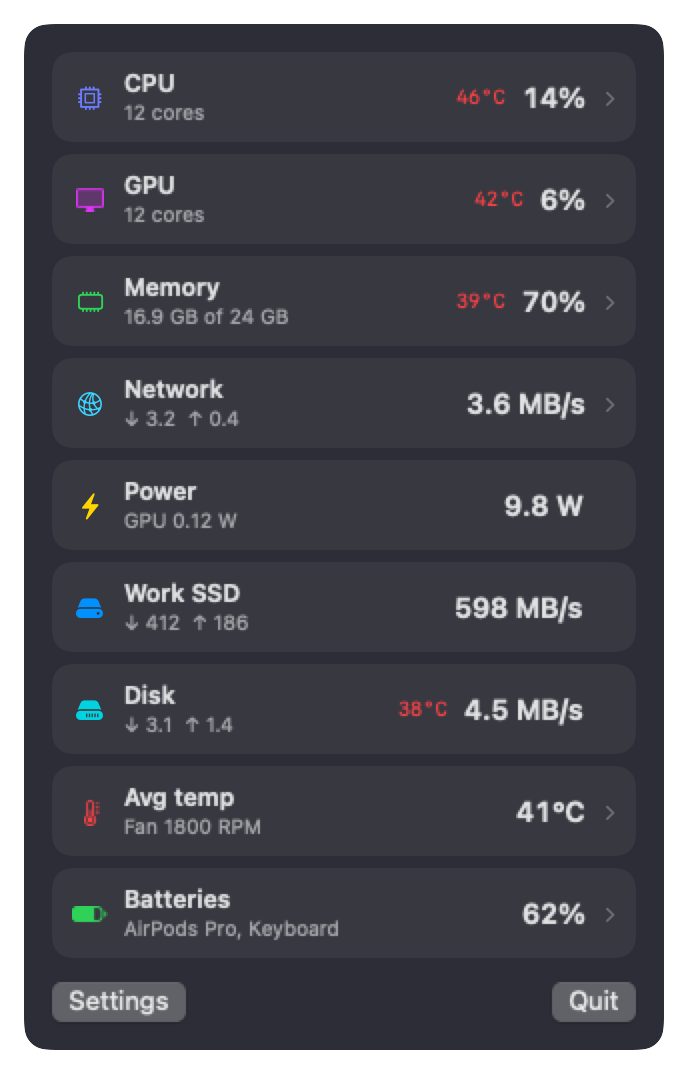
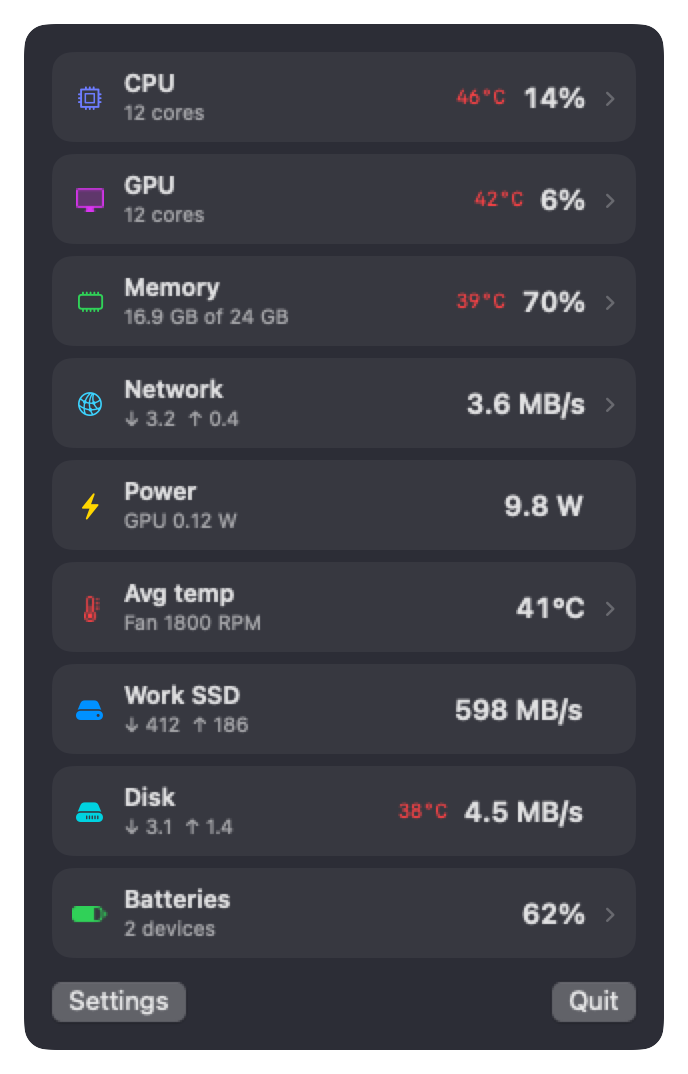
Simpler Display settings (Temperatures, Panel, Menu bar), one order everywhere, Batteries tile lists every device

diff --git a/Sources/SystemMonitorApp/Settings.swift b/Sources/SystemMonitorApp/Settings.swift
@@ -3,7 +3,7 @@ import SystemMonitorCore
 
 /// Things that can be shown in the menu bar icon and/or the panel.
 enum MonitorItem: String, CaseIterable, Identifiable {
-    case memory, drives, disk, power, cpu, gpu, thermal, network, devices
+    case cpu, gpu, memory, network, power, thermal, drives, disk, devices
 
     var id: String { rawValue }
 
@@ -91,10 +91,6 @@ final class Settings: ObservableObject {
     @Published var useFahrenheit: Bool {
         didSet { UserDefaults.standard.set(useFahrenheit, forKey: Self.unitKey) }
     }
-    /// Also read keyboard and mouse batteries over Bluetooth LE (asks macOS for Bluetooth access).
-    @Published var readBluetoothBatteries: Bool {
-        didSet { UserDefaults.standard.set(readBluetoothBatteries, forKey: "readBluetoothBatteries") }
-    }
     /// Correction to Memory used, in bytes, set from "Calibrate" in Settings (0 = none).
     @Published var memoryCalibration: Int64 {
         didSet { UserDefaults.standard.set(Double(memoryCalibration), forKey: "memoryCalibration") }
@@ -104,16 +100,9 @@ final class Settings: ObservableObject {
     @Published var panelList: Bool {
         didSet { UserDefaults.standard.set(panelList, forKey: "panelList") }
     }
-    @Published var menuBarMeters: Bool {
-        didSet { UserDefaults.standard.set(menuBarMeters, forKey: "menuBarMeters") }
-    }
     /// Menu bar style: false = short names (MEM, CPU ...), true = coloured icons with shorter text.
     @Published var menuBarIcons: Bool {
         didSet { UserDefaults.standard.set(menuBarIcons, forKey: "menuBarIcons") }
-    }
-    /// Show the CPU and GPU temperature in the menu bar too (red, after the load).
-    @Published var menuBarTemperatures: Bool {
-        didSet { UserDefaults.standard.set(menuBarTemperatures, forKey: "menuBarTemperatures") }
     }
     /// nil = detect from this Mac's CPU name.
     @Published var chipOverride: ChipFamily? {
@@ -147,11 +136,8 @@ final class Settings: ObservableObject {
         showTemperatures = UserDefaults.standard.object(forKey: Self.showTempKey) as? Bool ?? true
         useFahrenheit = UserDefaults.standard.bool(forKey: Self.unitKey)
         menuBarIcons = UserDefaults.standard.bool(forKey: "menuBarIcons")
-        menuBarMeters = UserDefaults.standard.bool(forKey: "menuBarMeters")
         panelList = UserDefaults.standard.bool(forKey: "panelList")
         memoryCalibration = Int64(UserDefaults.standard.double(forKey: "memoryCalibration"))
-        readBluetoothBatteries = UserDefaults.standard.bool(forKey: "readBluetoothBatteries")
-        menuBarTemperatures = UserDefaults.standard.object(forKey: "menuBarTemperatures") as? Bool ?? true
         chipOverride = UserDefaults.standard.string(forKey: Self.chipKey).flatMap(ChipFamily.init(rawValue:))
         let saved = UserDefaults.standard.double(forKey: Self.intervalKey)
         updateInterval = Self.intervals.contains(saved) ? saved : 1

diff --git a/Sources/SystemMonitorApp/SettingsView.swift b/Sources/SystemMonitorApp/SettingsView.swift
@@ -73,17 +73,8 @@ struct SettingsView: View {
                     }
                     .pickerStyle(.segmented).labelsHidden().fixedSize()
                 }
-                if settings.showTemperatures {
-                    Divider()
-                    SettingsRow(title: "Temperature in menu bar") {
-                        Toggle("", isOn: $settings.menuBarTemperatures).toggleStyle(.checkbox).labelsHidden()
-                    }
-                }
-                Divider()
-                SettingsRow(title: "Keyboard and mouse batteries") {
-                    Toggle("", isOn: $settings.readBluetoothBatteries).toggleStyle(.checkbox).labelsHidden()
-                }
                 if monitor.logitechStatus.hasPrefix("open failed") {
+                    Divider()
                     HStack {
                         Text("Mouse blocked: allow Lanes under Input Monitoring.").font(.caption).foregroundStyle(.orange)
                         Spacer()
@@ -102,11 +93,10 @@ struct SettingsView: View {
                     .pickerStyle(.segmented).labelsHidden().fixedSize()
                 }
                 Divider()
-                SettingsRow(title: "Menu bar style") {
-                    Picker("", selection: menuBarStyle) {
-                        Text("Names").tag(0)
-                        Text("Icons").tag(1)
-                        Text("Meters").tag(2)
+                SettingsRow(title: "Menu bar") {
+                    Picker("", selection: $settings.menuBarIcons) {
+                        Text("Names").tag(false)
+                        Text("Icons").tag(true)
                     }
                     .pickerStyle(.segmented).labelsHidden().fixedSize()
                 }
@@ -144,16 +134,6 @@ struct SettingsView: View {
             }
             .buttonStyle(.plain)
         }
-    }
-
-    /// Menu bar look: 0 = names, 1 = icons, 2 = meters (icons plus small meters for memory, CPU and GPU).
-    private var menuBarStyle: Binding<Int> {
-        Binding(
-            get: { settings.menuBarMeters ? 2 : (settings.menuBarIcons ? 1 : 0) },
-            set: { style in
-                settings.menuBarMeters = style == 2
-                settings.menuBarIcons = style != 0
-            })
     }
 
     /// One control for "show temperatures" and the unit: 0 = off, 1 = °C, 2 = °F.

diff --git a/Sources/SystemMonitorApp/IconCells.swift b/Sources/SystemMonitorApp/IconCells.swift
@@ -11,7 +11,6 @@ extension Monitor {
         var cells: [IconCell] = []
         let on = settings.menuBarItems
         let icons = settings.menuBarIcons
-        let meters = settings.menuBarMeters
 
         /// One cell in the chosen style. `value` is the full text, `short` the Icons-style text,
         /// `samples` / `shortSamples` the widest strings for a steady width.
@@ -32,10 +31,6 @@ extension Monitor {
         func cell(_ item: MonitorItem, label: String, value: String, short: String? = nil,
                   color: NSColor = .labelColor, samples: [String], shortSamples: [String]? = nil,
                   fraction: Double? = nil) -> IconCell {
-            if meters, let fraction {
-                return IconCell(layout: .meter(fraction: fraction, meterColor: item.nsColor, value: short ?? value),
-                                color: color, widthSamples: shortSamples ?? Array(samples.dropFirst()))
-            }
             if icons {
                 return IconCell(layout: .icon(symbol: symbol(item), symbolColor: item.nsColor, value: short ?? value),
                                 color: color, widthSamples: shortSamples ?? Array(samples.dropFirst()))
@@ -85,7 +80,7 @@ extension Monitor {
             }
         }
         if on.contains(.disk), let d = internalDrive {
-            let temp: (String, NSColor)? = settings.showTemperatures && settings.menuBarTemperatures
+            let temp: (String, NSColor)? = settings.showTemperatures
                 ? thermal?.ssdC.map { (settings.temperature($0, symbol: false), .systemRed) } : nil
             cells.append(driveCell(.disk, name: "DISK", read: d.readMBps, write: d.writeMBps, temp: temp))
         }
@@ -123,7 +118,7 @@ extension Monitor {
         for (item, label, load) in [(MonitorItem.cpu, "CPU", cpu), (.gpu, "GPU", gpu)] {
             guard on.contains(item), let load else { continue }
             let tempC = item == .cpu ? thermal?.cpuC : thermal?.gpuC
-            let temp = settings.showTemperatures && settings.menuBarTemperatures
+            let temp = settings.showTemperatures
                 ? tempC.map { " " + settings.temperature($0, symbol: false) } : nil
             let sample = temp == nil ? "100%" : "100% 212°"
             let percent = String(format: "%.0f%%", load * 100)

diff --git a/Sources/SystemMonitorApp/PanelView.swift b/Sources/SystemMonitorApp/PanelView.swift
@@ -63,7 +63,7 @@ struct PanelView: View {
 
     // MARK: Main panel
 
-    private static let tileOrder: [MonitorItem] = [.cpu, .gpu, .memory, .network, .power, .drives, .disk, .thermal, .devices]
+    private static let tileOrder: [MonitorItem] = [.cpu, .gpu, .memory, .network, .power, .thermal, .drives, .disk, .devices]
     /// Only these have more to show than their tile: cores and sensors, and the memory breakdown.
     private static let pageItems: Set<MonitorItem> = [.cpu, .gpu, .memory, .network, .thermal, .devices]
 
@@ -154,7 +154,8 @@ struct PanelView: View {
     private func driveCorner(_ drive: DriveRate) -> (text: String?, color: Color) {
         if monitor.smart[drive.bsdName] == .failing { return ("SMART ✗", .red) }
         guard let space = space(for: drive) else { return (nil, .secondary) }
-        return (ByteCountFormatter.string(fromByteCount: Int64(space.freeBytes), countStyle: .file), .secondary)
+        let gb = Double(space.freeBytes) / 1e9
+        return (gb >= 1000 ? String(format: "%.1f TB", gb / 1000) : String(format: "%.0f GB", gb), .secondary)
     }
 
     private func tileData(_ item: MonitorItem) -> TileData? {
@@ -229,8 +230,11 @@ struct PanelView: View {
             guard let lowest = monitor.lowestBattery else { return nil }
             let names = (monitor.laptopBattery == nil ? [] : ["This Mac"]) + monitor.deviceBatteries.map(\.name)
             var data = TileData(id: item, symbol: item.symbol, name: "Batteries", color: item.color,
-                                big: "\(lowest)%", small: names.map(shortDeviceName).joined(separator: ", "),
+                                big: "\(lowest)%", small: "\(names.count) device\(names.count == 1 ? "" : "s")",
                                 corner: nil, history: [])
+            // Every device on its own line (the lowest level is the big number).
+            data.lines = (monitor.laptopBattery.map { [("This Mac", "\($0.percent)%")] } ?? [])
+                + monitor.deviceBatteries.map { (shortDeviceName($0.name), "\($0.lowestPercent)%") }
             data.fraction = Double(lowest) / 100
             return data
         }

diff --git a/Sources/SystemMonitorApp/Tiles.swift b/Sources/SystemMonitorApp/Tiles.swift
@@ -19,6 +19,8 @@ struct TileData: Identifiable {
     let history: [Double]
     /// 0...1 fill for the bar shown when there is no history (Batteries).
     var fraction: Double?
+    /// One line per entry (name, value), for tiles that list several things (Batteries).
+    var lines: [(String, String)] = []
 }
 
 /// One tile: name and corner text, a big number, a small caption and a little graph.
@@ -43,7 +45,7 @@ struct Tile: View {
                 Text(data.name).font(.system(size: 11, weight: .semibold)).foregroundStyle(.secondary).lineLimit(1)
                 Spacer(minLength: 2)
                 if let corner = data.corner {
-                    Text(corner).font(.system(size: 10, design: .monospaced)).foregroundStyle(data.cornerColor)
+                    Text(corner).font(.system(size: 10, design: .monospaced)).foregroundStyle(data.cornerColor).lineLimit(1).fixedSize()
                 }
                 if action != nil {
                     Image(systemName: "chevron.right").font(.system(size: 8, weight: .bold)).foregroundStyle(.tertiary)
@@ -70,6 +72,17 @@ struct Tile: View {
                     speeds
                 }
                 .font(.system(size: 10, weight: .medium)).lineLimit(1)
+            } else if !data.lines.isEmpty {
+                VStack(spacing: 1) {
+                    ForEach(data.lines.indices.prefix(4), id: \.self) { i in
+                        HStack(spacing: 4) {
+                            Text(data.lines[i].0).lineLimit(1).truncationMode(.tail)
+                            Spacer(minLength: 2)
+                            Text(data.lines[i].1).monospacedDigit()
+                        }
+                    }
+                }
+                .font(.system(size: 10)).foregroundStyle(.secondary)
             } else {
                 Text(data.small).font(.system(size: 10)).foregroundStyle(.secondary).lineLimit(1)
             }

diff --git a/Sources/SystemMonitorApp/Monitor.swift b/Sources/SystemMonitorApp/Monitor.swift
@@ -69,7 +69,7 @@ final class Monitor: ObservableObject {
 
     /// Starts or stops the Bluetooth LE reads to match the settings.
     func updateBLEReading() {
-        let wanted = settings.readBluetoothBatteries && (settings.menuBarItems.union(settings.panelItems)).contains(.devices)
+        let wanted = settings.menuBarItems.union(settings.panelItems).contains(.devices)   // only while Batteries is shown
         if wanted, bleTimer == nil {
             _ = IOHIDRequestAccess(kIOHIDRequestTypeListenEvent)   // makes macOS show its Input Monitoring prompt
             readBLE()

diff --git a/CHANGELOG.md b/CHANGELOG.md
@@ -17,9 +17,9 @@ More in this release
 - Batteries: the Mac's own battery on laptops and connected Bluetooth devices (AirPods, mouse, keyboard) in one strip with an arrow; click it for a page with a bar for every part (left, right, case).
 - Busiest apps by CPU on the CPU page and by memory on the Memory page (read only while that page is open).
 - Sensors page (click the Avg temp strip): every temperature, fan, power, voltage and current reading the Mac offers, and a warning when macOS is throttling.
-- Menu bar style: Names, Icons or Meters (small bars for memory, CPU and GPU), with red temperatures, a switch for temperatures in the menu bar, and steady widths so the bar does not bounce.
+- Menu bar: Names or Icons, with red temperatures and steady widths so the bar does not bounce. The Display settings are three rows: Temperatures, Panel (Grid or Rows) and Menu bar.
 - Graph hover: hover a graph on a page to see the exact value and how long ago.
-- Settings: type what Activity Monitor shows and "Calibrate" corrects Memory used for that Mac (Reset undoes it). Optional "Keyboard and mouse batteries" reads Bluetooth LE devices such as the Logitech MX Keys and Logitech mice on a USB receiver (HID++); macOS may ask for Bluetooth or input access.
+- Settings: type what Activity Monitor shows and "Calibrate" corrects Memory used for that Mac (Reset undoes it). Batteries also reads Bluetooth LE keyboards such as the Logitech MX Keys and Logitech mice on a USB receiver (HID++) while the Batteries item is on; macOS may ask for Bluetooth or input access once.
 - Settings: "Check accuracy" compares the memory numbers with vm_stat; the GPU tile shows the GPU core count; Memory page shows compressed memory over time.
 
 New features
